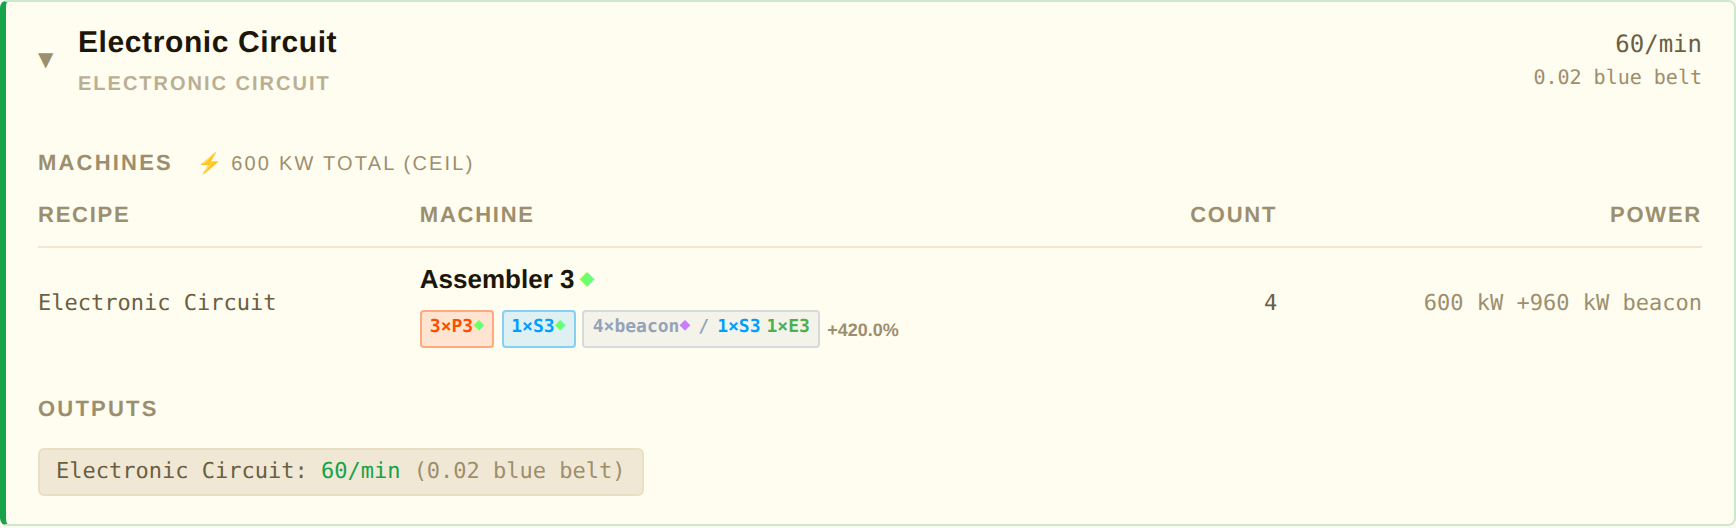
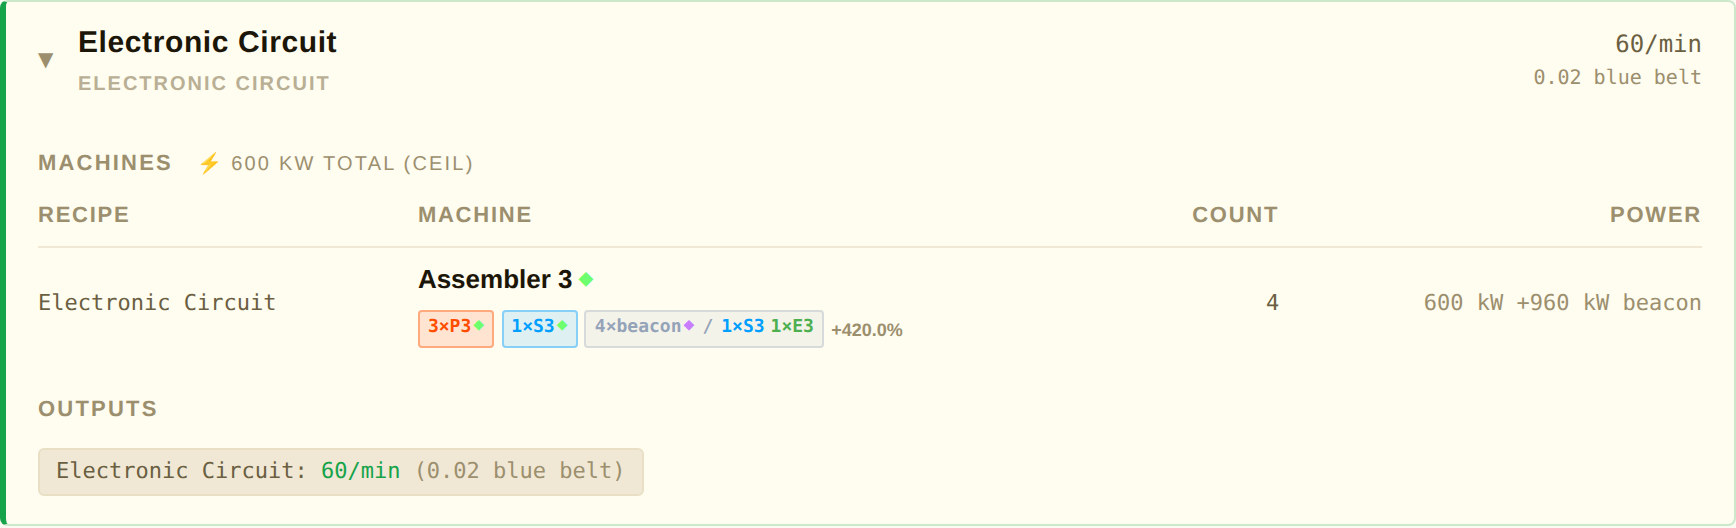
Add 1px left margin to quality diamonds inside chips
Gives a small visual gap between text (e.g. "P3", "×beacon") and the
following ◆ in mod-chip and bcn-chip contexts. Machine name ◆ already
has spacing via the flex gap:3px wrapper and is unaffected.

https://claude.ai/code/session_01SyKx24fZjBrdm6oV2dN8BW

diff --git a/10x-factorio-engineer/assets/dashboard.html b/10x-factorio-engineer/assets/dashboard.html
@@ -300,6 +300,7 @@ white-space: nowrap; line-height: 1.6; vertical-align: middle;
 .qdot.q-epic      { color: #C87DFF; }
 .qdot.q-legendary { color: #FFB347; }
 .bcn-chip .qdot, .mod-chip .qdot, td.name-col .qdot { font-size: 9px; }
+.bcn-chip .qdot, .mod-chip .qdot { margin-left: 1px; }
 .bcn-sep { margin: 0 3px; }
 /* ── Issues ── */
 .issue-item { display: flex; align-items: flex-start; gap: 8px; padding: 10px 12px;

diff --git a/dev/dashboard.html b/dev/dashboard.html
@@ -322,6 +322,7 @@
     .qdot.q-epic      { color: #C87DFF; }
     .qdot.q-legendary { color: #FFB347; }
     .bcn-chip .qdot, .mod-chip .qdot, td.name-col .qdot { font-size: 9px; }
+    .bcn-chip .qdot, .mod-chip .qdot { margin-left: 1px; }
     .bcn-sep { margin: 0 3px; }
 
     /* ── Issues ── */
